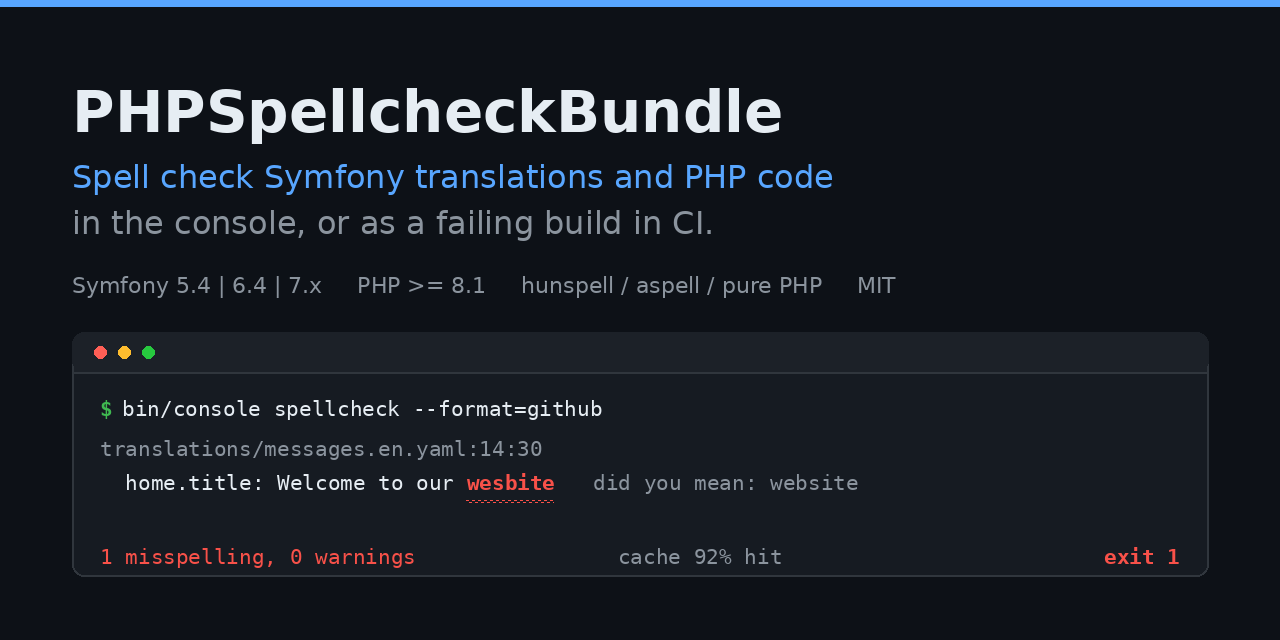
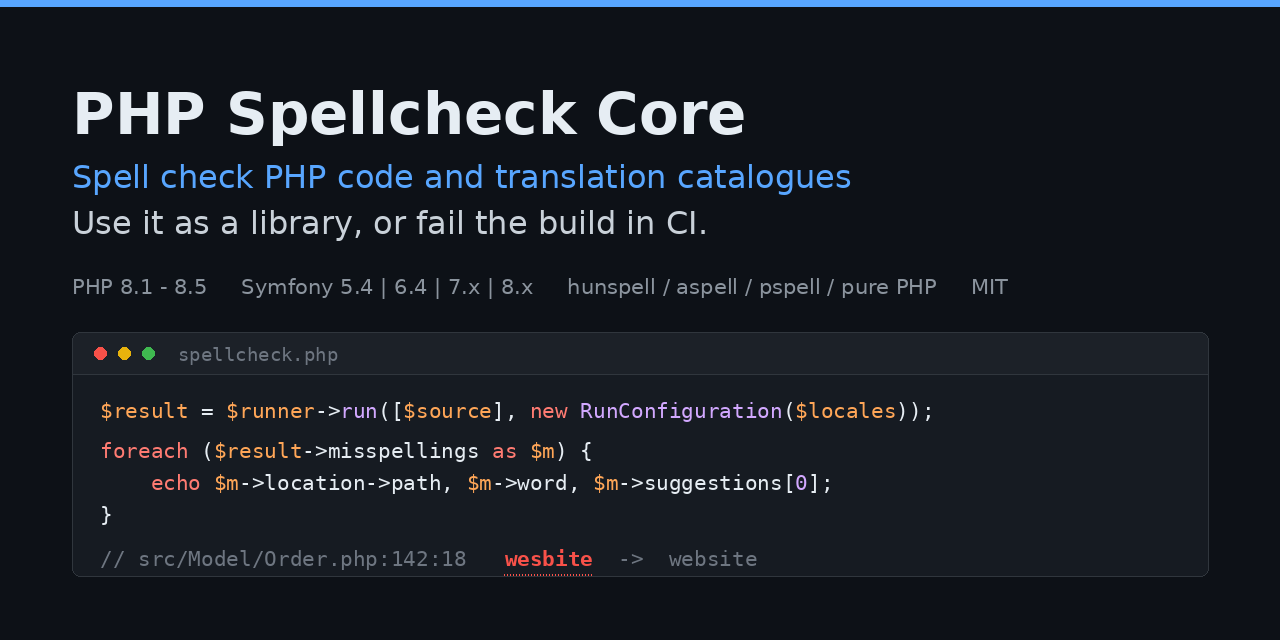
Add social preview image to README

diff --git a/README.md b/README.md
@@ -1,5 +1,9 @@
 # PHP Spellcheck Core — spell checker for PHP code and translation files
 
+<p align="center">
+  <img src="https://raw.githubusercontent.com/php-spellcheck/spellcheck-core/main/.github/assets/social-preview.png" alt="PHP Spellcheck Core — spell check PHP code and translation catalogues" width="880">
+</p>
+
 [![CI](https://github.com/php-spellcheck/spellcheck-core/actions/workflows/ci.yaml/badge.svg)](https://github.com/php-spellcheck/spellcheck-core/actions/workflows/ci.yaml)
 [![Latest version](https://img.shields.io/packagist/v/php-spellcheck/spellcheck-core.svg)](https://packagist.org/packages/php-spellcheck/spellcheck-core)
 [![Downloads](https://img.shields.io/packagist/dt/php-spellcheck/spellcheck-core.svg)](https://packagist.org/packages/php-spellcheck/spellcheck-core)
